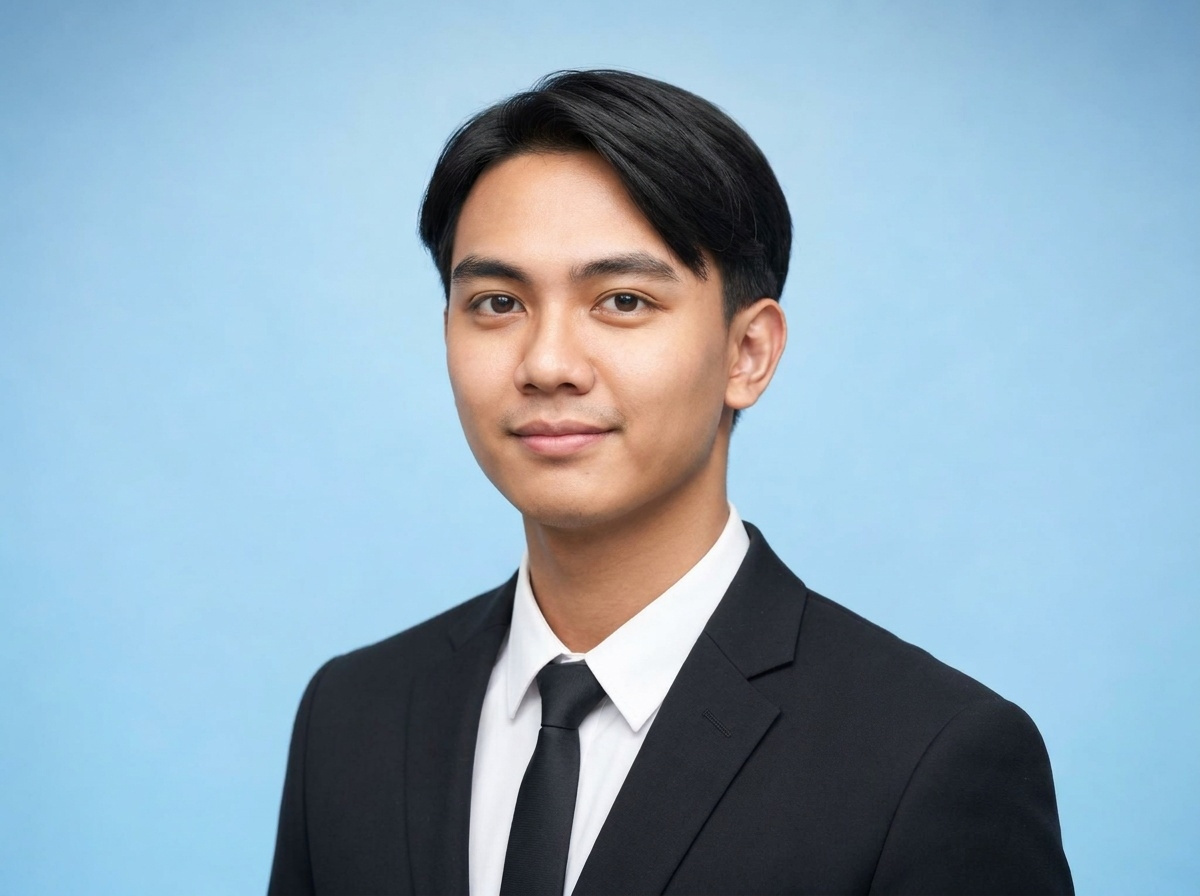
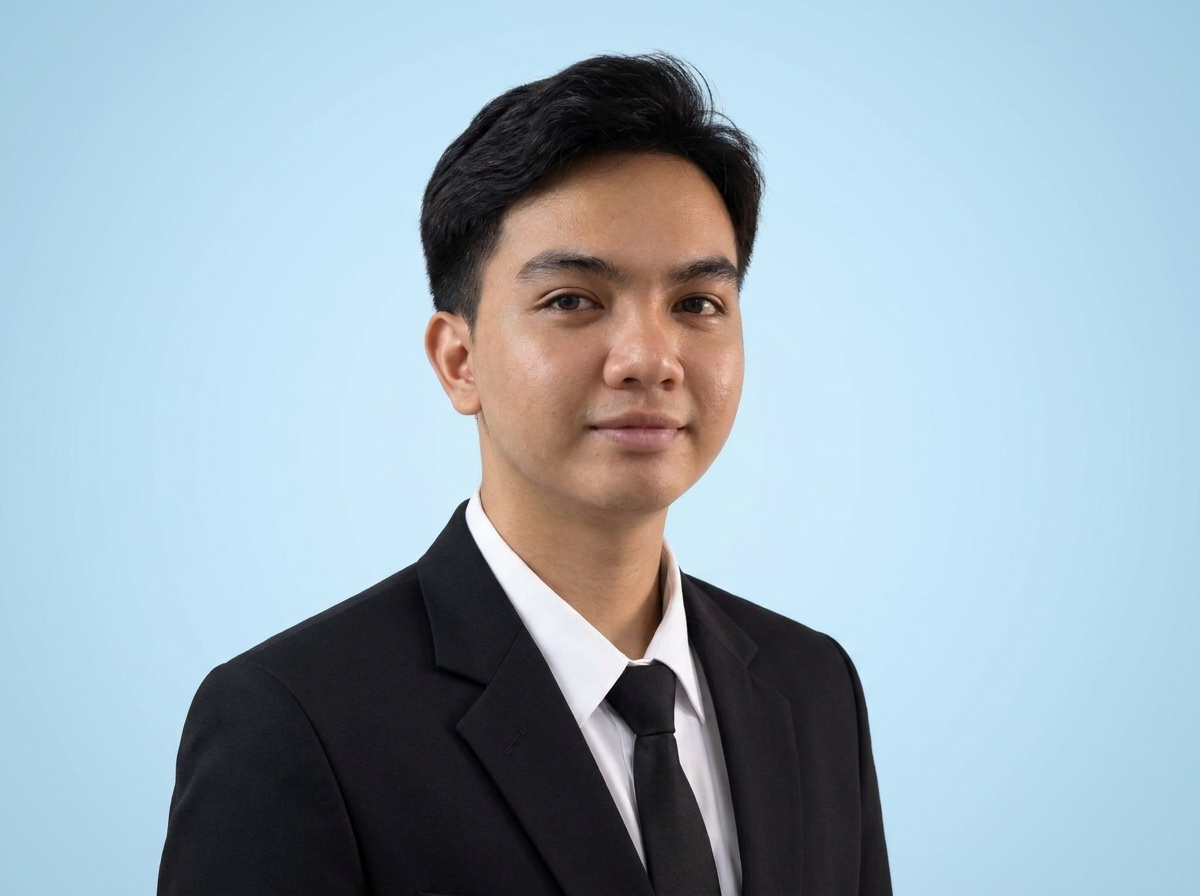
Update team photos and responsive layout for about, index, and services pages

diff --git a/about.html b/about.html
@@ -807,7 +807,7 @@
     .values-grid{ grid-template-columns:repeat(2,minmax(0,1fr));gap:0.5rem; }
     .value-card{ min-height:13rem;padding:1rem 0.8rem;border-radius:16px; }
     .value-card h3{ font-size:clamp(1.35rem,6vw,2rem); }
-    .value-description{ font-size:0.68rem;line-height:1.5; }
+    .value-description{ font-size:0.68rem;line-height:1.5; }
     .team-heading,.proof-heading,.timeline-heading{ gap:0.75rem; }
     .team-heading h2,.proof-heading h2,.timeline-heading h2{ font-size:clamp(1.8rem,8vw,2.8rem); }
     .team-heading-copy,.proof-heading-copy,.timeline-heading-copy{ max-width:12rem;font-size:0.68rem;line-height:1.5; }
@@ -900,9 +900,9 @@
   .ai-image-placeholder span{font-size:1.1rem;font-weight:600;opacity:.7;}
   .ai-image-placeholder small{opacity:.5;font-size:.85rem;}
   @media(max-width:767px){.ai-image-section{padding:2rem 1.25rem;}}
-  .intern-frame{width:100%;max-width:100%;margin:0 auto;padding:0 2rem;}
-  .intern-frame-inner{background:transparent;border:1px solid rgba(124,143,58,0.16);border-radius:24px;padding:3rem;display:grid;grid-template-columns:repeat(4,1fr);gap:2rem;box-shadow:none;}
-  .intern-group-label{display:block;width:max-content;margin:0 auto 1.25rem;font-size:0.8rem;font-weight:800;letter-spacing:0.14em;text-transform:uppercase;color:#4c5a1e;background:rgba(124,143,58,0.14);border:1px solid rgba(124,143,58,0.25);padding:0.45rem 1.3rem;border-radius:999px;}
+  .intern-frame{width:100%;max-width:100%;margin:0 auto;padding:clamp(1.5rem,3vw,2.5rem);border:1px solid rgba(124,143,58,0.16);border-radius:24px;background:linear-gradient(145deg,rgba(247,247,242,0.55),rgba(238,241,223,0.45));}
+  .intern-frame-inner{background:transparent;border:0;border-radius:0;padding:0;display:grid;grid-template-columns:repeat(4,1fr);gap:2rem;box-shadow:none;}
+  .intern-group-label{display:block;width:max-content;margin:0 auto 1.5rem;font-family:'Bricolage Grotesque','Inter',sans-serif;font-size:clamp(1.5rem,2.6vw,2.1rem);font-weight:800;letter-spacing:-0.03em;text-transform:uppercase;color:var(--moss-deep);line-height:1;}
   .intern-carousel-controls{display:flex;justify-content:center;gap:0.6rem;margin-top:0.75rem;}
   .intern-carousel-button{display:grid;place-items:center;width:2.2rem;height:2.2rem;border:1px solid rgba(76,90,30,0.28);border-radius:50%;background:rgba(250,249,244,0.72);color:var(--moss-deep);font-size:1.15rem;line-height:1;cursor:pointer;}
   .intern-carousel-button:disabled{opacity:0.35;cursor:default;}
@@ -915,7 +915,7 @@
   @media(max-width:900px){.intern-frame-inner{grid-template-columns:repeat(2,1fr);}}
   @media(max-width:520px){.intern-frame-inner{grid-template-columns:1fr;padding:1.5rem;}}
   @media(max-width:767px){
-    .intern-frame{padding:0;overflow:hidden;}
+    .intern-frame{padding:1.25rem 0.75rem 1rem;overflow:hidden;}
     .intern-frame-inner{display:flex !important;grid-template-columns:none !important;gap:0.65rem;padding:0.75rem;overflow-x:auto;scroll-snap-type:x mandatory;scrollbar-width:none;}
     .intern-frame-inner::-webkit-scrollbar{display:none;}
     .intern-card{flex:0 0 calc((100% - 0.65rem) / 2) !important;min-width:0;border-radius:14px;scroll-snap-align:start;}
@@ -923,7 +923,7 @@
     .intern-card-photo img{object-fit:cover;object-position:center;}
     .intern-card-info{min-height:auto;padding:0.85rem 0.45rem;flex-direction:column;align-items:center;justify-content:center;text-align:center;}
     .intern-card-info h3{min-height:auto;margin:0;font-size:0.88rem;line-height:1.2;text-align:center;}
-    .intern-group-label{font-size:0.68rem;padding:0.35rem 1rem;margin-bottom:0.9rem;}
+    .intern-group-label{font-size:clamp(1.15rem,5.5vw,1.5rem);padding:0;margin-bottom:0.9rem;}
     .intern-carousel-controls{margin-top:0.6rem;}
     .intern-carousel-button{width:2rem;height:2rem;font-size:1rem;}
   }
@@ -1106,11 +1106,10 @@
           <!-- Row 3: 1 Project Manager -->
           <div class="team-row team-row--1 reveal-on-scroll reveal-delay-2">
             <article class="team-card team-card--manager">
-              <div class="team-card-media"><img src="images/project-manager.jpeg" alt="Project Manager" loading="lazy" /></div>
+              <div class="team-card-media"><img src="images/gelora.png" alt="Project Manager" loading="lazy" /></div>
               <div class="team-card-info">
-                <h3 class="font-display">[Name to be added]</h3>
+                <h3 class="font-display">GELORA</h3>
                 <p class="team-card-role">Project Manager</p>
-                <p>Replace with a verified short bio covering this person's craft and role at ARCA.</p>
               </div>
             </article>
           </div>
@@ -1118,49 +1117,48 @@
           <!-- Row 4: 2 Content Creators -->
           <div class="team-row team-row--2 reveal-on-scroll reveal-delay-3">
             <article class="team-card team-card--content">
-              <div class="team-card-media"><img src="images/WhatsApp Image 2026-09-09 at 14.00.08.jpeg" alt="Content Creator" loading="lazy" /></div>
+              <div class="team-card-media"><img src="images/indra (2).png" alt="Content Creator" loading="lazy" /></div>
               <div class="team-card-info">
                 <h3 class="font-display">INDRA</h3>
                 <p class="team-card-role">Content Creator</p>
-                <p>Replace with a verified short bio covering this person's craft and role at ARCA.</p>
               </div>
             </article>
             <article class="team-card team-card--content">
-              <div class="team-card-media"><img src="images/konten-kreator-wanita.jpeg" alt="Content Creator" loading="lazy" /></div>
+              <div class="team-card-media"><img src="images/adyaa.png" alt="Content Creator" loading="lazy" /></div>
               <div class="team-card-info">
                 <h3 class="font-display">ADYA</h3>
                 <p class="team-card-role">Content Creator</p>
-                <p>Replace with a verified short bio covering this person's craft and role at ARCA.</p>
               </div>
             </article>
           </div>
 
 
 
-          <!-- Row 5: Creative Team (2) & Lead KOL (1) -->
-          <div class="team-row team-row--3 reveal-on-scroll reveal-delay-4">
-            <article class="team-card team-card--content">
-              <div class="team-card-media"><img src="images/placeholder-person.svg" alt="Creative Team" loading="lazy" /></div>
-              <div class="team-card-info">
-                <h3 class="font-display">[Nama Creative Team 1]</h3>
-                <p class="team-card-role">Creative Team</p>
-                <p>Replace with a verified short bio covering this person's craft and role at ARCA.</p>
-              </div>
-            </article>
-            <article class="team-card team-card--content">
-              <div class="team-card-media"><img src="images/placeholder-person.svg" alt="Creative Team" loading="lazy" /></div>
-              <div class="team-card-info">
-                <h3 class="font-display">[Nama Creative Team 2]</h3>
-                <p class="team-card-role">Creative Team</p>
-                <p>Replace with a verified short bio covering this person's craft and role at ARCA.</p>
-              </div>
-            </article>
+          <!-- Row 5: Lead KOL (1) — di atas Creative Team -->
+          <div class="team-row team-row--1 reveal-on-scroll reveal-delay-4">
             <article class="team-card team-card--manager">
-              <div class="team-card-media"><img src="images/placeholder-person.svg" alt="Lead KOL" loading="lazy" /></div>
+              <div class="team-card-media"><img src="images/yoga.png" alt="Lead KOL" loading="lazy" /></div>
               <div class="team-card-info">
-                <h3 class="font-display">[Nama Lead KOL]</h3>
+                <h3 class="font-display">YOGA</h3>
                 <p class="team-card-role">Lead KOL</p>
-                <p>Replace with a verified short bio covering this person's craft and role at ARCA.</p>
+              </div>
+            </article>
+          </div>
+
+          <!-- Row 5b: Creative Team (2) -->
+          <div class="team-row team-row--2 reveal-on-scroll reveal-delay-4">
+            <article class="team-card team-card--content">
+              <div class="team-card-media"><img src="images/adi.png" alt="Creative Team" loading="lazy" /></div>
+              <div class="team-card-info">
+                <h3 class="font-display">ADI</h3>
+                <p class="team-card-role">Creative Team</p>
+              </div>
+            </article>
+            <article class="team-card team-card--content">
+              <div class="team-card-media"><img src="images/arya.png" alt="Creative Team" loading="lazy" /></div>
+              <div class="team-card-info">
+                <h3 class="font-display">ARYA</h3>
+                <p class="team-card-role">Creative Team</p>
               </div>
             </article>
           </div>
@@ -1168,7 +1166,7 @@
           <!-- Row 6: Anak Magang -->
           <div class="team-row team-row--interns reveal-on-scroll reveal-delay-4">
             <div class="intern-frame">
-              <span class="intern-group-label">Team IT</span>
+              <span class="intern-group-label">IT Team</span>
               <div class="intern-frame-inner">
                 <article class="intern-card">
                   <div class="intern-card-photo"><img src="images/nofal.png" alt="Anggun HRMSR" loading="lazy" /></div>
@@ -1189,9 +1187,9 @@
                   </div>
                 </article>
                 <article class="intern-card">
-                  <div class="intern-card-photo"><img src="images/magang4.jpeg" alt="Piti Astley" loading="lazy" /></div>
+                  <div class="intern-card-photo"><img src="images/jason.png" alt="Piti Astley" loading="lazy" /></div>
                   <div class="intern-card-info">
-                    <h3>Piti Astley</h3>
+                    <h3>Jason</h3>
                   </div>
                 </article>
               </div>

diff --git a/index.html b/index.html
@@ -2647,7 +2647,7 @@
       position:relative;
       display:flex;
       flex:0 0 clamp(18rem,27vw,24rem);
-      min-height:clamp(29rem,43vw,35rem);
+      min-height:auto;
       flex-direction:column;
       overflow:hidden;
       border:1px solid var(--card-line);
@@ -2906,28 +2906,42 @@
 
     @media(max-width:800px){
       .achievement-track{ justify-content:flex-start; }
-      .achievement-card{ flex-basis:clamp(19rem,76vw,29rem); min-height:34rem; }
+      .achievement-card{ flex:0 0 clamp(18rem,40vw,24rem); min-height:auto; }
+      /* Teks bagian dalam dikecilkan agar muat di frame (berlaku juga untuk tablet/601-800px) */
+      .achievement-card:nth-child(n){ transform:rotate(0deg); }
+      .achievement-card-head{ gap:0.25rem;padding:0.7rem 0.55rem 0;font-size:0.5rem;letter-spacing:0.08em; }
+      .achievement-card-brand{ max-width:4rem; }
+      .achievement-card-media,.achievement-card--recognition .achievement-card-media{ min-height:auto;padding:0.7rem 0.45rem 0.4rem; }
+      .achievement-card-copy{ padding:0 0.55rem 0.65rem; }
+      .achievement-card-copy h3{ font-size:clamp(0.85rem,3.8vw,1.1rem);line-height:1.05; }
+      .achievement-card-copy p{ margin-top:0.28rem;font-size:0.58rem;line-height:1.35; }
+      .achievement-card-tags{ flex-direction:column;align-items:flex-start;gap:0.28rem;margin-top:0.5rem; }
+      .achievement-card-tags span{ padding:0.24rem 0.4rem;font-size:0.45rem;letter-spacing:0.04em; }
+      .achievement-card-certificate{ margin-top:0.4rem;font-size:0.48rem;letter-spacing:0.06em; }
+      .achievement-card-photo{ height:clamp(7.5rem,26vw,9rem);aspect-ratio:auto;object-fit:cover;border-radius:3px; }
+      .achievement-card-mark{ max-width:80%;max-height:6.5rem; }
     }
 
     @media(max-width:600px){
-      #achievements{ padding-block:4.5rem 5rem; }
+      #achievements{ padding-block:3rem 3.5rem; }
       .achievements-title{ font-size:clamp(2.65rem,13.4vw,4.5rem); max-width:100%; overflow-wrap:break-word; }
       .achievements-heading-copy{ font-size:0.92rem; }
-      .achievement-track{ display:grid;grid-template-columns:repeat(3,minmax(0,1fr));gap:0.45rem;overflow:visible;padding:1rem 0.5rem 2rem;scroll-padding-inline:0; }
-      .achievement-track > :first-child,.achievement-track > :last-child{ margin-left:0;margin-right:0; }
-      .achievement-card{ min-width:0;min-height:clamp(13rem,63vw,20rem);height:auto;flex:1 1 0; }
+      /* Tetap seperti tampilan desktop: ukuran kartu tidak diubah, track bisa di-scroll ke kiri-kanan */
+      .achievement-track{ display:flex; justify-content:flex-start; overflow-x:auto; gap:clamp(0.8rem,2.2vw,2.2rem); padding:clamp(4rem,7vw,6rem) max(2.5rem,calc((100vw - 1280px) / 2)) 4rem; scroll-snap-type:x proximity; scroll-behavior:smooth; scroll-padding-inline:max(2.5rem,calc((100vw - 1280px) / 2)); overscroll-behavior-x:contain; scrollbar-width:none; cursor:grab; user-select:none; -webkit-overflow-scrolling:touch; }
+      .achievement-card{ flex:0 0 clamp(18rem,27vw,24rem); min-height:auto; }
       .achievement-card:nth-child(n){ transform:rotate(0deg); }
-      .achievement-card-head{ gap:0.25rem;padding:0.7rem 0.55rem 0;font-size:0.38rem;letter-spacing:0.08em; }
+      /* Teks di dalam kartu dikecilkan agar muat di frame tanpa terpotong */
+      .achievement-card-head{ gap:0.25rem;padding:0.7rem 0.55rem 0;font-size:0.5rem;letter-spacing:0.08em; }
       .achievement-card-brand{ max-width:4rem; }
-      .achievement-card-media,.achievement-card--recognition .achievement-card-media{ min-height:clamp(5.5rem,22vw,7rem);padding:0.7rem 0.45rem 0.4rem; }
-      .achievement-card-copy{ padding:0 0.55rem 0.7rem; }
-      .achievement-card-copy h3{ font-size:clamp(0.85rem,3.5vw,1.1rem);line-height:1; }
-      .achievement-card-copy p{ margin-top:0.4rem;font-size:0.52rem;line-height:1.4; }
-      .achievement-card-tags{ gap:0.2rem;margin-top:0.55rem; }
-      .achievement-card-tags span{ padding:0.22rem 0.3rem;font-size:0.35rem;letter-spacing:0.04em; }
-      .achievement-card-certificate{ margin-top:0.5rem;font-size:0.38rem;letter-spacing:0.06em; }
-      .achievement-card-photo{ border-radius:3px; }
-      .achievement-card-mark{ max-width:92%;max-height:6rem; }
+      .achievement-card-media,.achievement-card--recognition .achievement-card-media{ min-height:auto;padding:0.7rem 0.45rem 0.4rem; }
+      .achievement-card-copy{ padding:0 0.55rem 0.65rem; }
+      .achievement-card-copy h3{ font-size:clamp(0.85rem,3.8vw,1.1rem);line-height:1.05; }
+      .achievement-card-copy p{ margin-top:0.28rem;font-size:0.58rem;line-height:1.35; }
+      .achievement-card-tags{ flex-direction:column;align-items:flex-start;gap:0.28rem;margin-top:0.5rem; }
+      .achievement-card-tags span{ padding:0.24rem 0.4rem;font-size:0.45rem;letter-spacing:0.04em; }
+      .achievement-card-certificate{ margin-top:0.4rem;font-size:0.48rem;letter-spacing:0.06em; }
+      .achievement-card-photo{ height:clamp(7.5rem,26vw,9rem);aspect-ratio:auto;object-fit:cover;border-radius:3px; }
+      .achievement-card-mark{ max-width:80%;max-height:6.5rem; }
       .achievements-footer{ align-items:flex-start; flex-direction:column; gap:0.9rem; }
       .achievement-progress{ width:100%; }
     }

diff --git a/services.html b/services.html
@@ -1164,14 +1164,25 @@
     body{ overflow-x:hidden; }
     .services-intro{ grid-template-columns:1fr;gap:1.5rem; }
     .services-intro-copy-wrap{ justify-self:start; }
-    .service-row{ grid-template-columns:1fr auto;gap:1rem; }
-    .service-summary{ grid-column:1 / -1; }
-    .service-detail{ grid-template-columns:1fr;gap:1.5rem; }
-    .service-detail-note{ grid-column:1;max-width:100%; }
-    .service-tags{ grid-column:1; }
+    .service-row{ grid-template-columns:1fr auto;gap:0.7rem;min-height:0;padding:0.95rem 0; }
+    .service-eyebrow{ margin-bottom:0.3rem;font-size:0.52rem;letter-spacing:0.16em; }
+    .service-name{ font-size:clamp(1.35rem,6.5vw,1.85rem);letter-spacing:-0.04em; }
+    .service-summary{
+      grid-column:1 / -1;margin-top:0.15rem;
+      font-size:0.73rem;line-height:1.5;color:#777a6e;
+      display:-webkit-box;-webkit-box-orient:vertical;-webkit-line-clamp:2;overflow:hidden;
+    }
+    .service-detail{ grid-template-columns:1fr;gap:0.8rem; }
+    .service-detail-note{
+      grid-column:1;max-width:100%;margin:0;
+      font-size:0.7rem;line-height:1.5;
+      display:-webkit-box;-webkit-box-orient:vertical;-webkit-line-clamp:2;overflow:hidden;
+    }
+    .service-tags{ grid-column:1;flex-direction:column;align-items:flex-start;gap:0.45rem; }
+    .service-tag{ padding:0.45rem 0.75rem;font-size:0.58rem;letter-spacing:0.06em; }
+    .service-toggle{ width:2.5rem;height:2.5rem; }
     .service-item:hover .service-detail,
-    .service-item.is-active .service-detail{ height:13.5rem; }
-    .service-toggle{ width:2.75rem;height:2.75rem; }
+    .service-item.is-active .service-detail{ height:auto;padding-bottom:1.1rem; }
     #site-header nav.mobile-nav-open{
       display:flex !important;
       position:fixed;
